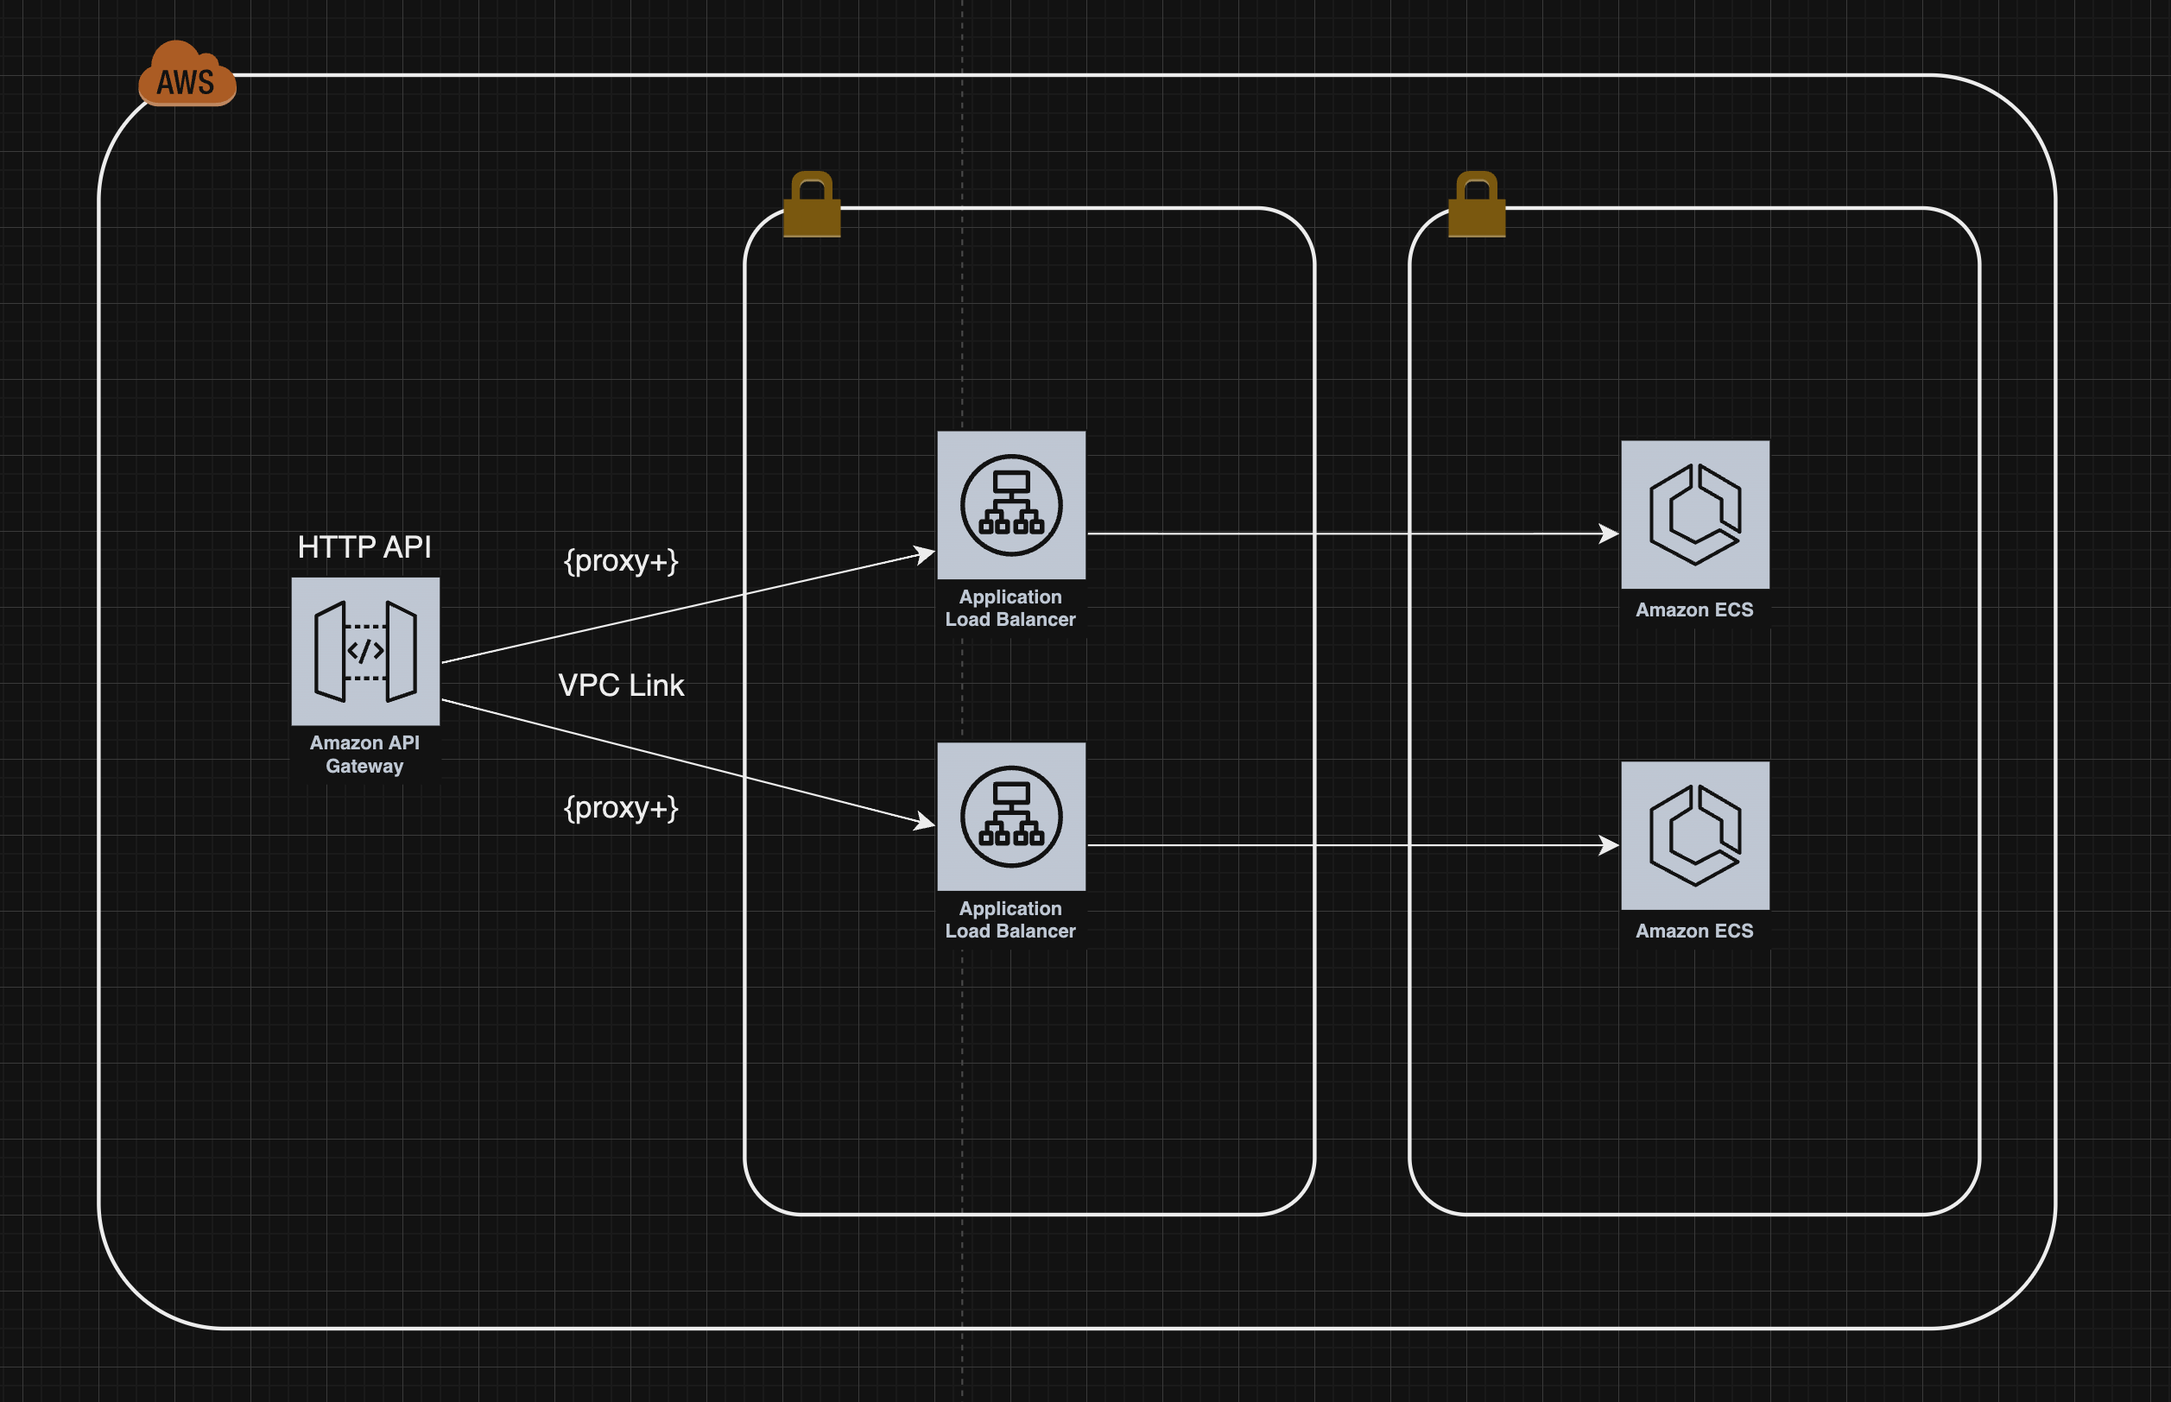
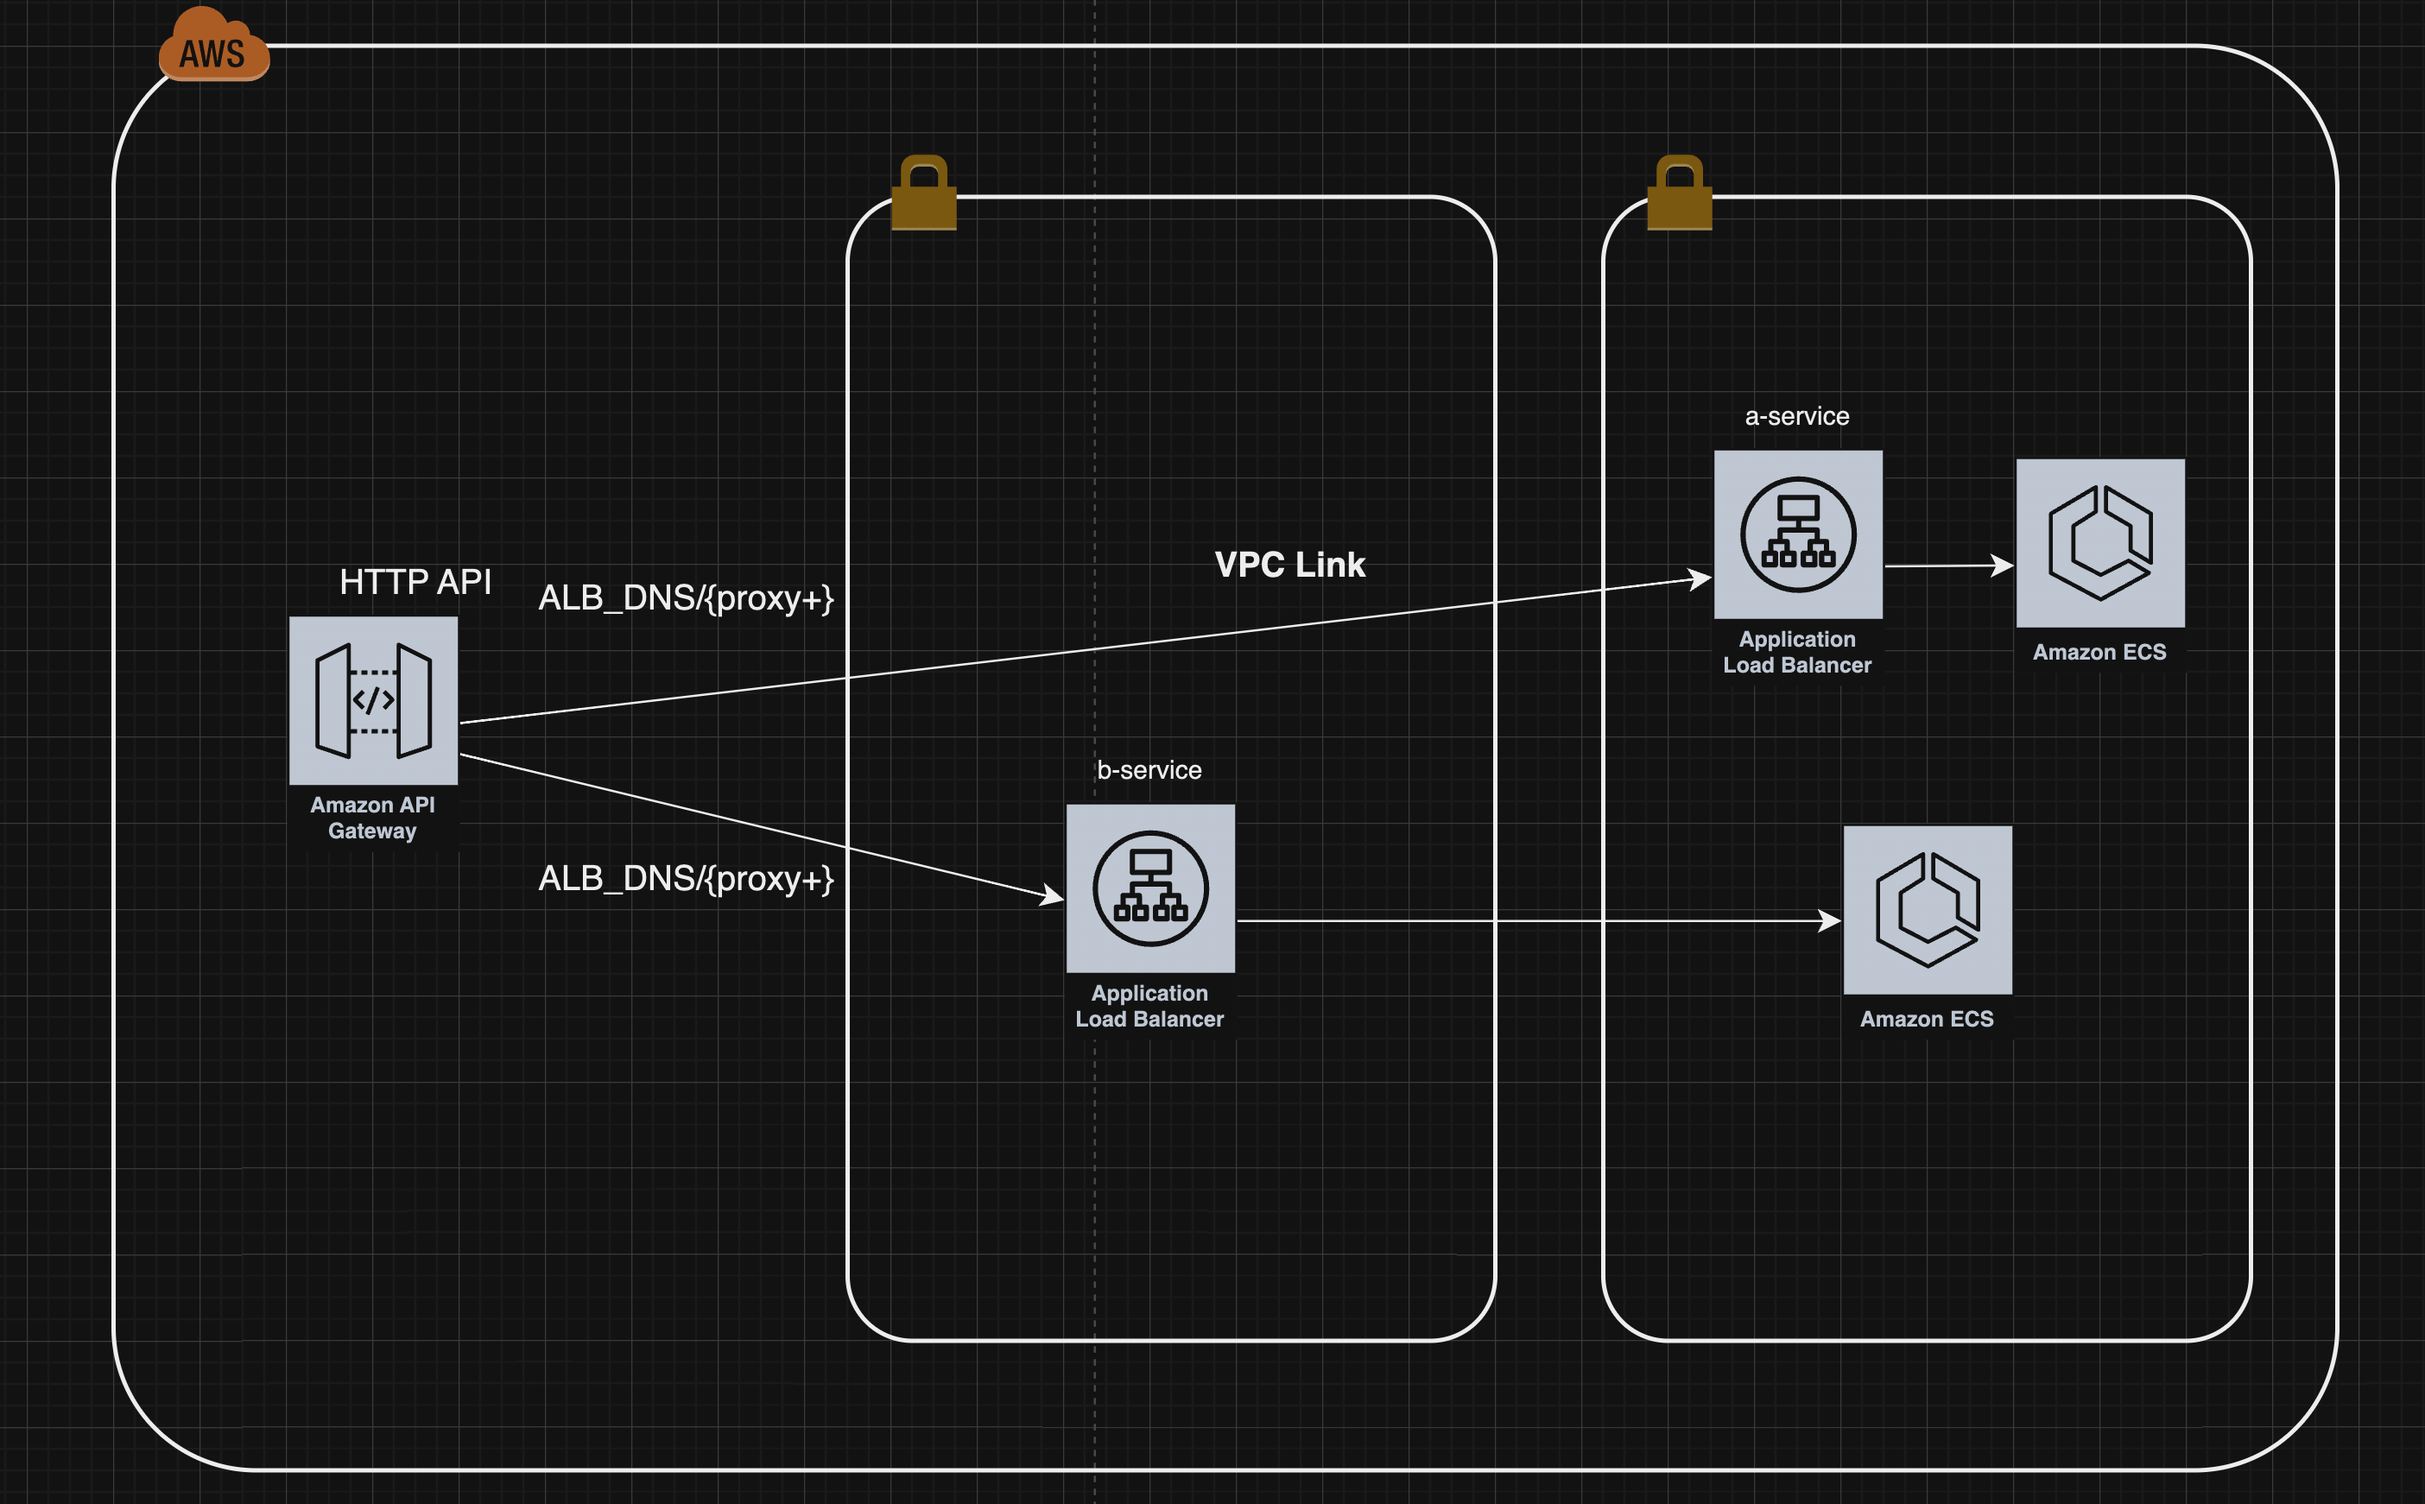
Update api-gateway vpc-link

Changed region(s): [[0.031, 0.0, 0.9928, 0.9852]]

diff --git a/README.md b/README.md
@@ -42,3 +42,38 @@
 ## Reference
 
 - <a href="https://hub.docker.com/repository/docker/zkfmapf123/donggyu-friends/general"> zkfmapf123/donggyu-friends public registry </a>
+
+```
+    terraform init
+    terraform apply --auto-approve
+```
+
+## 구조
+
+- Service-A
+
+    - <b>api-gateway -> VPC link -> Private Subnet(ALB -> ECS)</b>
+
+- Service-B
+
+    - <b>api-gatweay -> Public Subnet(ALB -> ECS)</b>
+
+## api-gateway proxy 설정하는 법
+
+### api-gateway Route 설정
+
+- public/{proxy+}
+- private/{proxy+}
+
+![3](./public/3.png)
+
+### ALB 구성에서 Path에 {proxy} 추가
+
+- Serivce_A_ALB_DNS/{proxy}
+- Service_B_ALB_DNS/{proxy}
+
+![4](./public/4.png)
+
+### 결과
+
+![5](./public/5.png)
